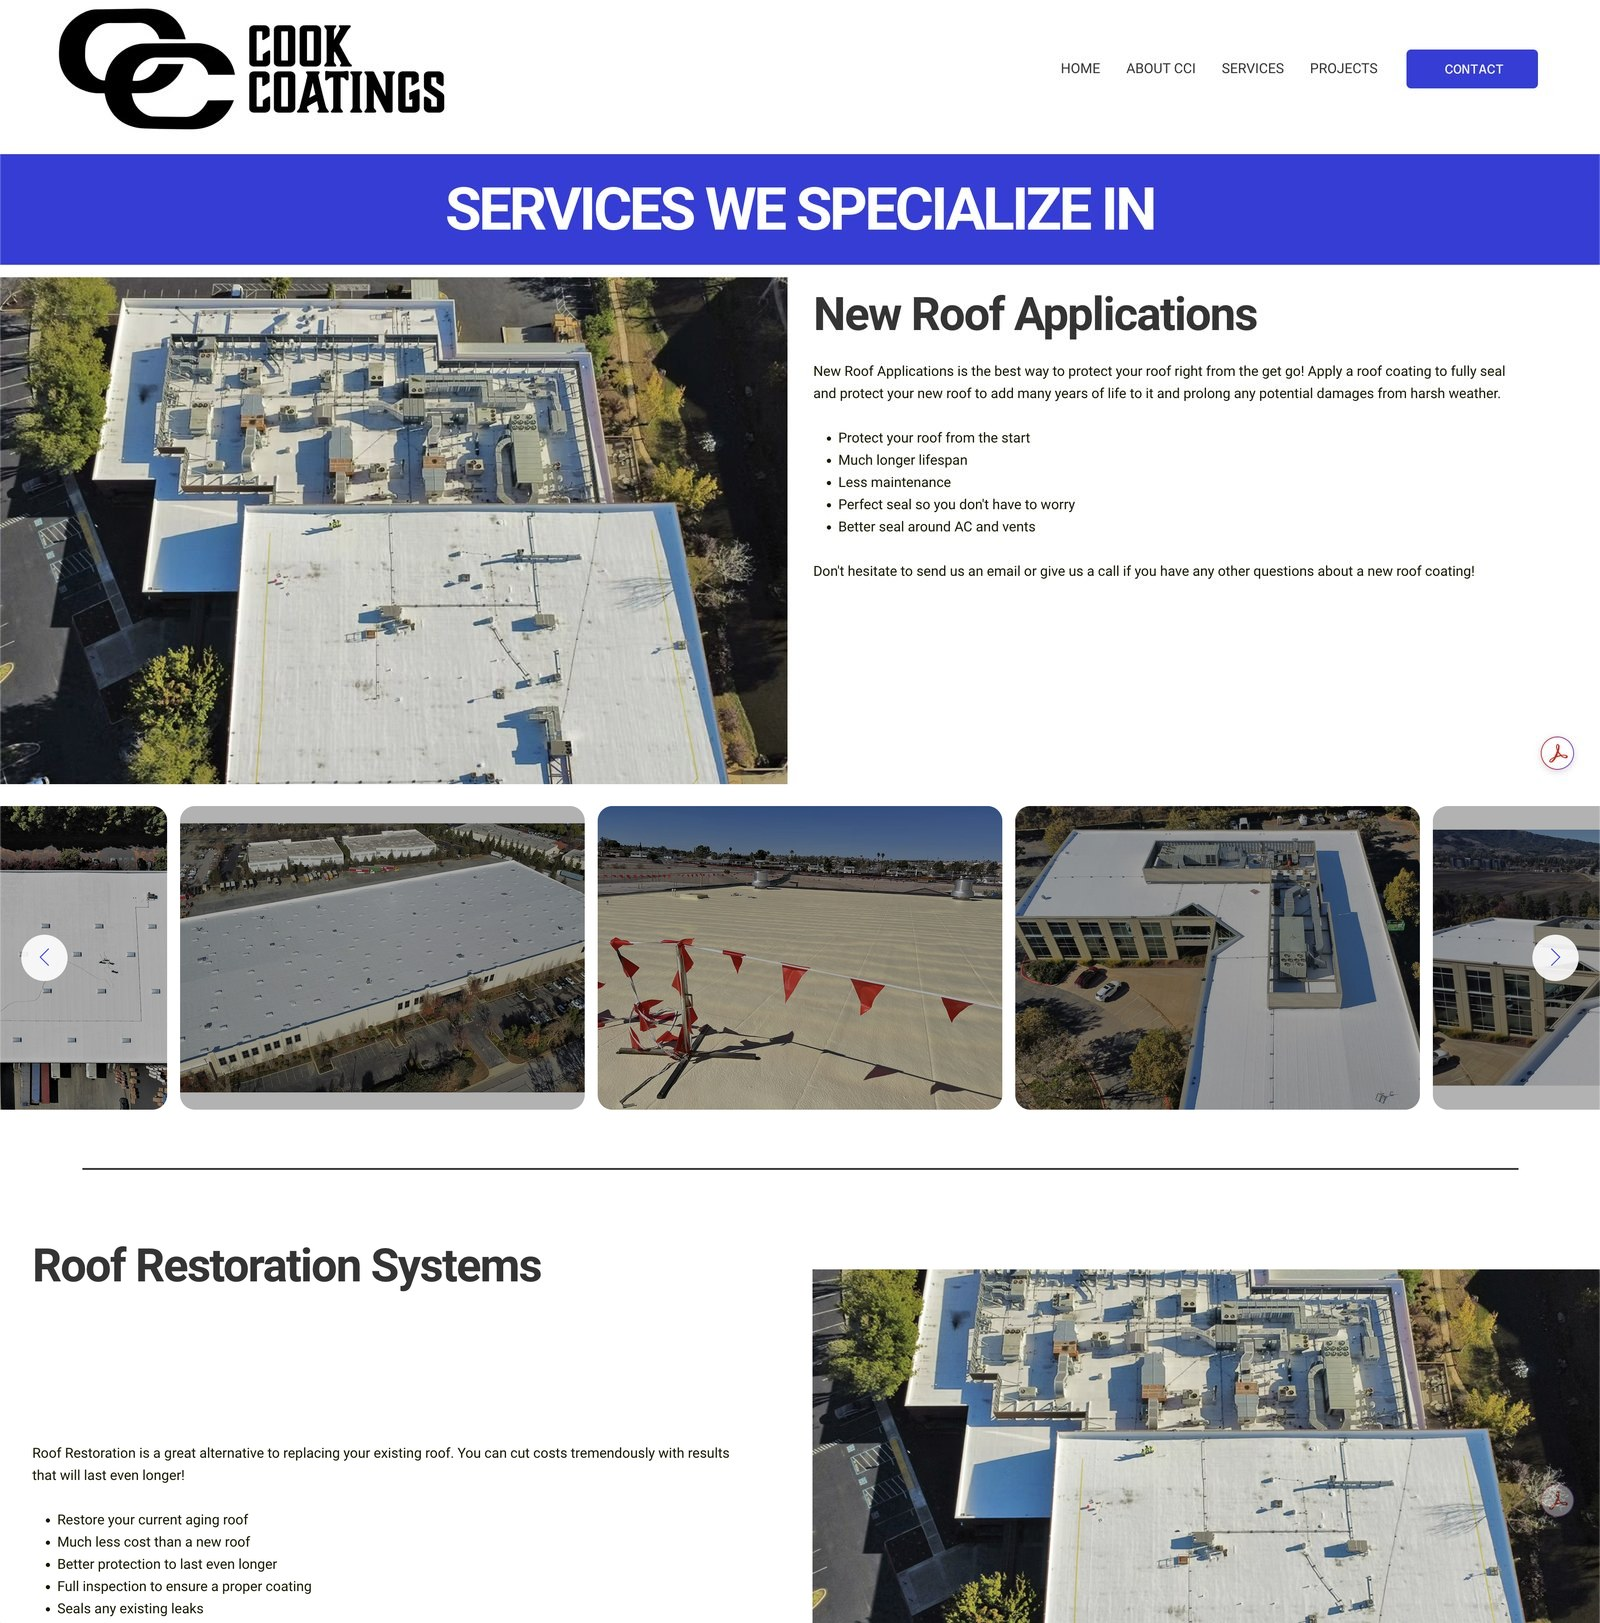
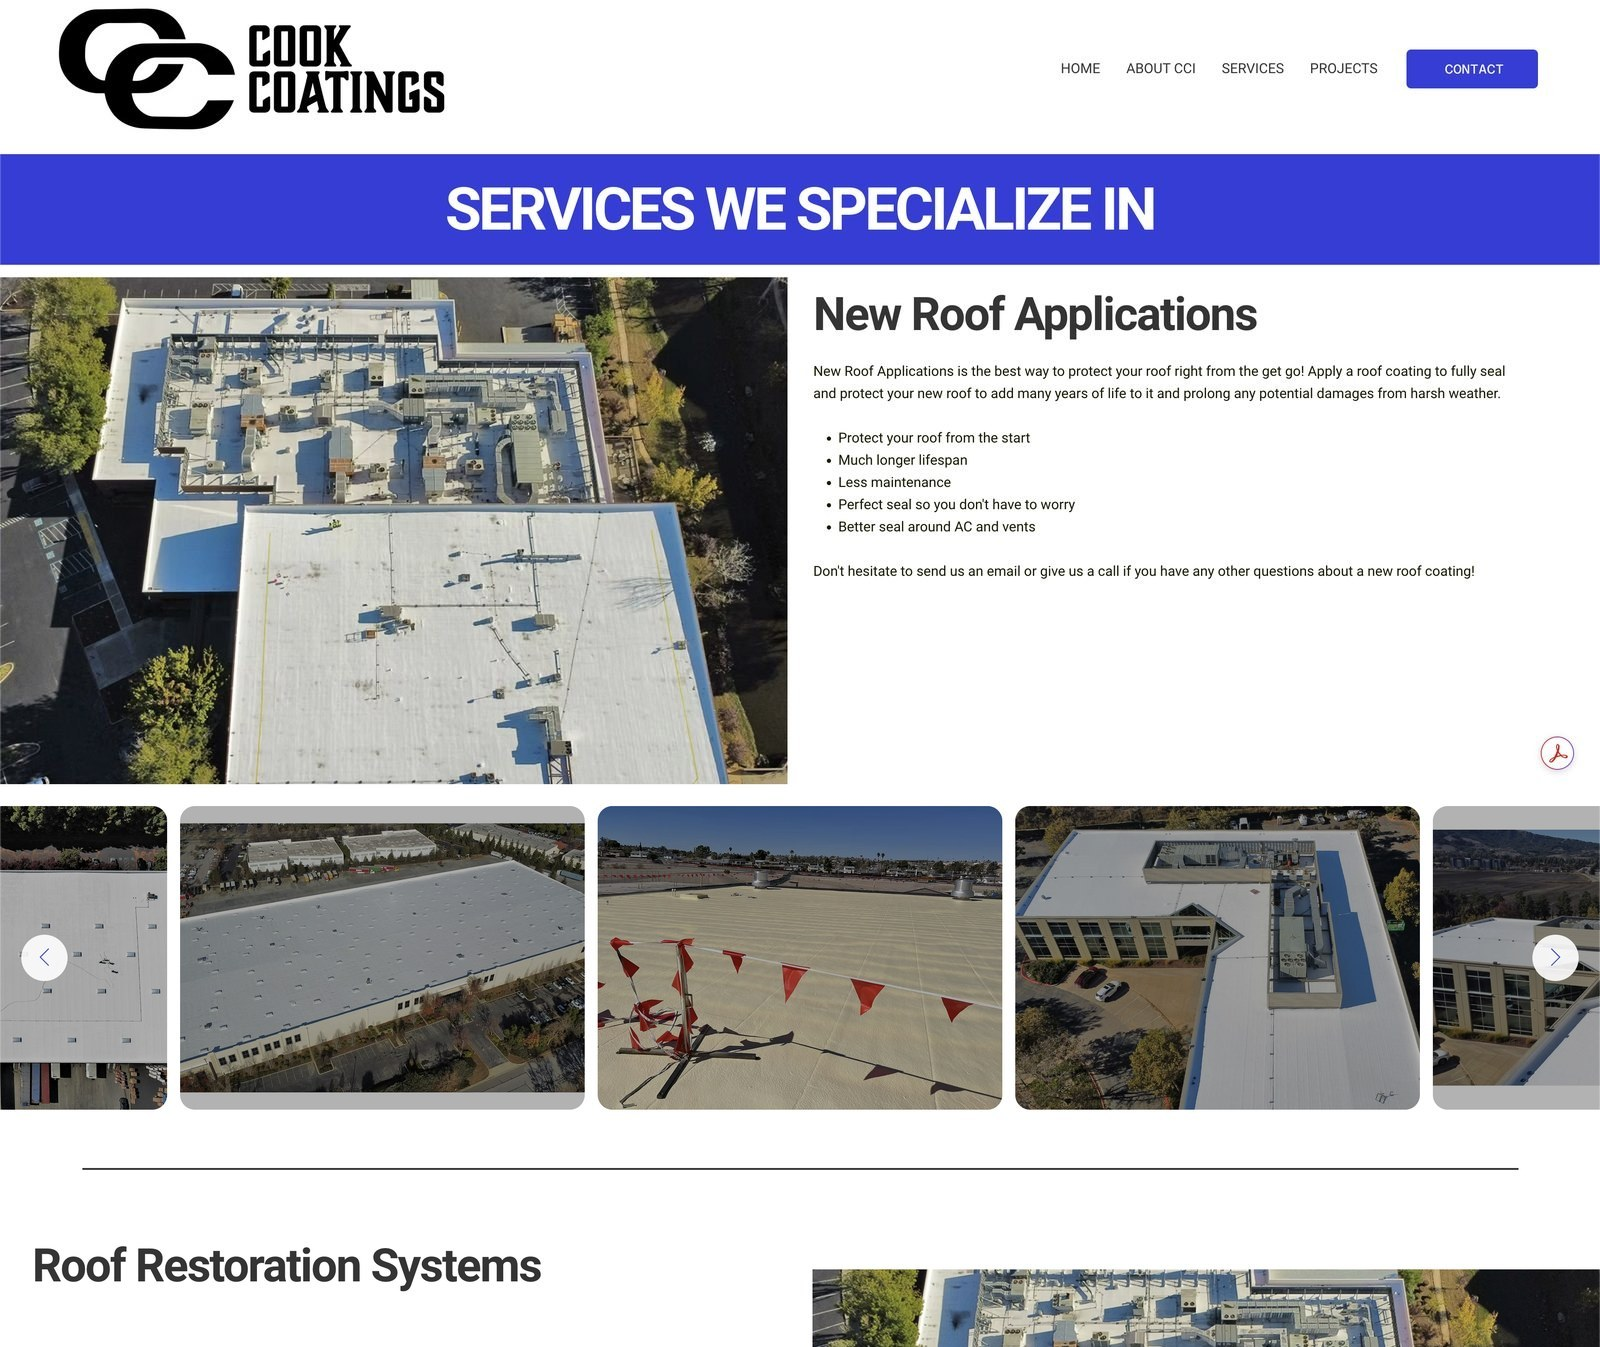
Match Website Design image heights, touch How it works cards on mobile
Stitched a new continuation photo onto the M81 screenshot the same
way the other two were extended, then normalized all three website
design examples to the same 1600x1347 crop so none are taller than
the others. How it works steps now touch edge-to-edge on mobile with
the same fading cyan divider used on the homepage's What we do cards.

diff --git a/src/app/website-design/page.tsx b/src/app/website-design/page.tsx
@@ -1,4 +1,5 @@
 import type { Metadata } from "next";
+import { Fragment } from "react";
 import PageHero from "@/components/PageHero";
 import PhotoFeed from "@/components/PhotoFeed";
 import ContactCta from "@/components/ContactCta";
@@ -47,12 +48,22 @@ export default function WebsiteDesignPage() {
       <section className="border-t border-border bg-surface">
         <div className="mx-auto max-w-6xl px-6 py-16">
           <h2 className="font-display text-2xl uppercase tracking-wide">How it works</h2>
-          <div className="mt-8 grid gap-6 sm:grid-cols-2 lg:grid-cols-4">
-            {process.map((item) => (
-              <div key={item.step} className="rounded-sm border border-border bg-surface-2 p-5">
-                <p className="font-semibold text-accent">{item.step}</p>
-                <p className="mt-2 text-sm text-text-secondary">{item.detail}</p>
-              </div>
+          <div className="mt-8 grid gap-0 sm:gap-6 sm:grid-cols-2 lg:grid-cols-4">
+            {process.map((item, i) => (
+              <Fragment key={item.step}>
+                <div className="p-5 sm:rounded-sm sm:border sm:border-border sm:bg-surface-2">
+                  <p className="font-semibold text-accent">{item.step}</p>
+                  <p className="mt-2 text-sm text-text-secondary">{item.detail}</p>
+                </div>
+                {i < process.length - 1 && (
+                  <div
+                    className="h-px sm:hidden"
+                    style={{
+                      background: "linear-gradient(to right, transparent, var(--accent) 50%, transparent)",
+                    }}
+                  />
+                )}
+              </Fragment>
             ))}
           </div>
         </div>

diff --git a/src/lib/media.ts b/src/lib/media.ts
@@ -180,24 +180,24 @@ export const designCategories: { title: string; items: Photo[] }[] = [
 
 export const websiteDesignExamples: Photo[] = [
   {
-    src: "/mockups/m81-desktop.jpg",
+    src: "/design/Webdesign3.jpg",
     alt: "M81 Designs website preview",
     width: 1600,
-    height: 829,
+    height: 1347,
     href: "https://m81designs.com",
   },
   {
     src: "/design/Webdesign1.jpg",
     alt: "Cook Coatings website preview",
     width: 1600,
-    height: 1623,
+    height: 1347,
     href: "https://cookcoatingsinc.com",
   },
   {
     src: "/design/Webdesign2.jpg",
     alt: "CageWRX website preview",
     width: 1600,
-    height: 1436,
+    height: 1347,
     href: "https://cagewrx.com",
   },
 ];
